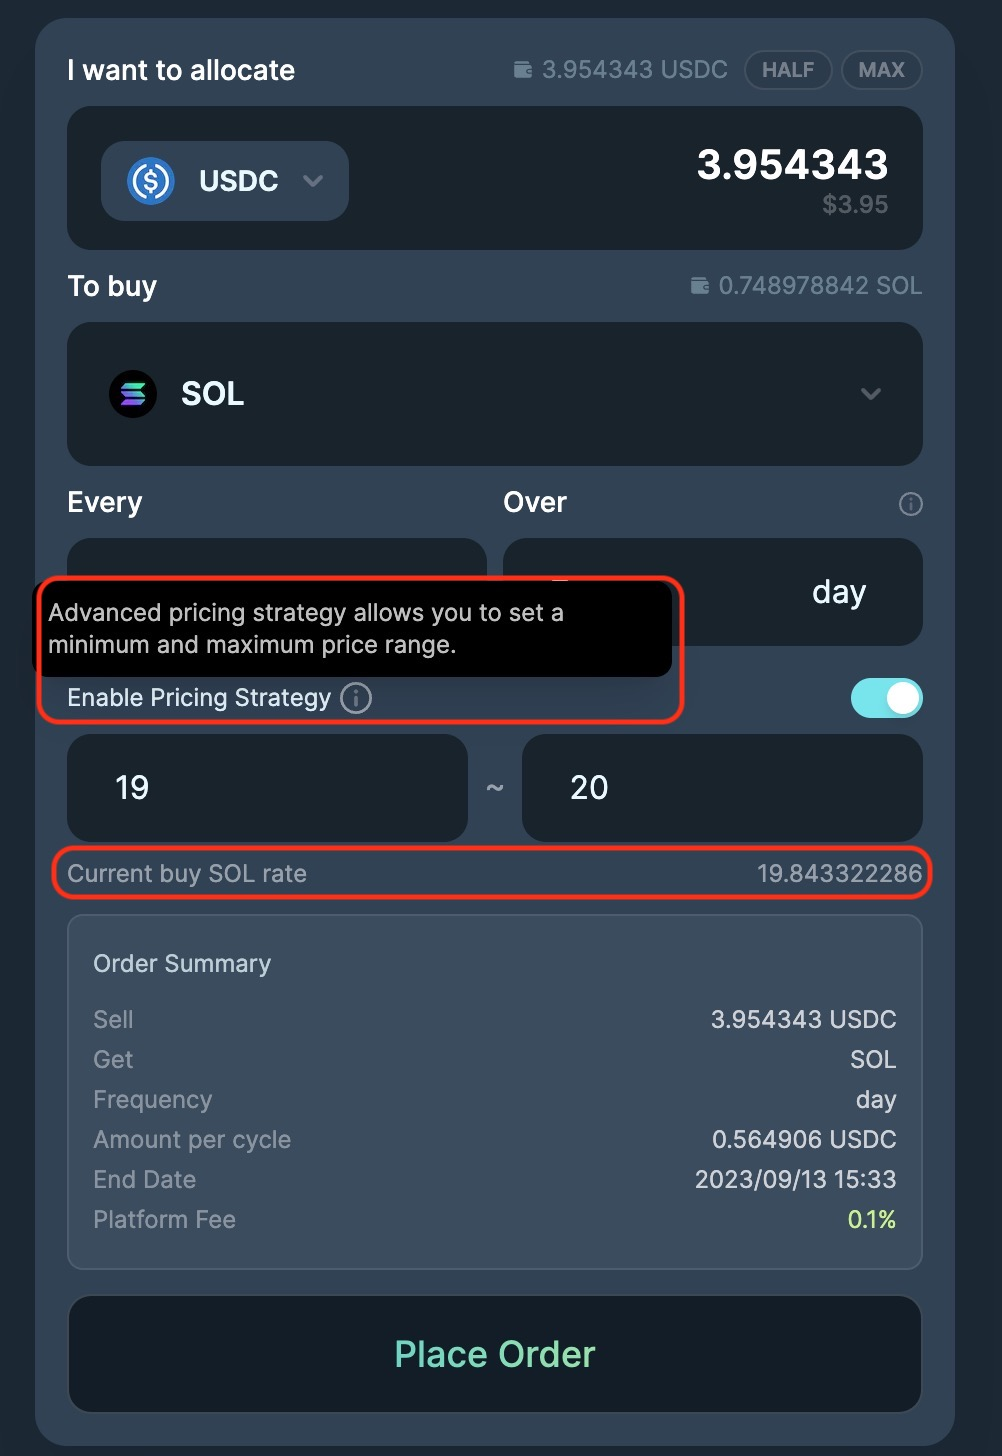
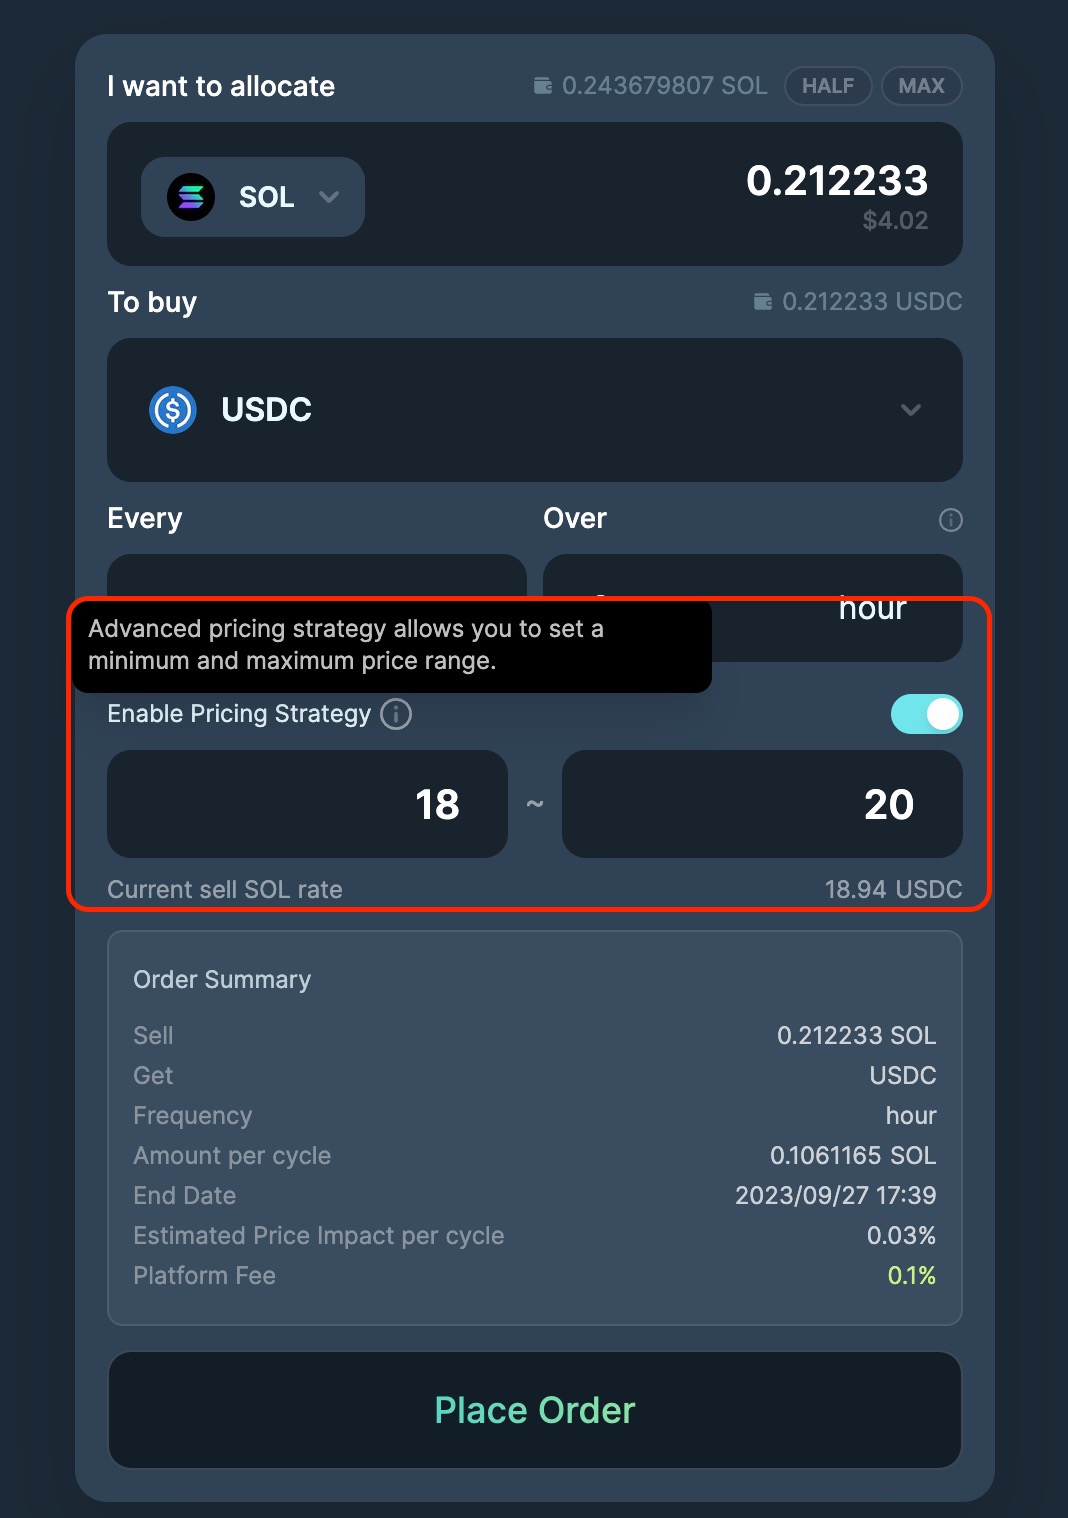
Updated image and added new update

Changed region(s): [[0.0309, 0.0, 0.9591, 1.0], [0.6806, 0.6799, 0.8972, 0.8654], [0.4022, 0.8963, 0.5878, 0.9581]]

diff --git a/blog/2023-09-18-dca-out-of-beta/index.md b/blog/2023-09-18-dca-out-of-beta/index.md
@@ -5,6 +5,8 @@ title: "Jupiter DCA Is Now Officially Launched!"
 
 In an important step towards building the most powerful and usable set of spot trading features in DeFi, we are thrilled to announce that **Jupiter DCA is now officially launched!** After many rounds of rigorous testing and user feedback, we have incorporated a ton of improvements based on valuable suggestions and ideas from partners and users to increase platform stability and add more features.
 
+![DCALaunch](dcalaunch.gif)
+
 ## Jupiter DCA Recap
 
 2 months ago, we launched the beta version of Jupiter DCA - a non-custodial, on-chain dollar cost averaging solution to automate the purchase or sale of any token.
@@ -20,7 +22,7 @@ Key use cases for DCA includes:
 
 To ensure best price execution, DCA keepers use Jupiter and also perform price checks against an external price data provider i.e. Birdeye. In additon, to prevent people from querying and hijacking the order right before the order is about to be executed, orders have a + 2 ~ 30 second variability.
 
-## Upgrades From Beta:**
+## Upgrades From Beta
 
 - **Advanced Pricing Strategy:** Introducing Min/Max parameters for users to define a precise, user-defined executable price range. This gives users more control over their investments and helps them avoid buying or selling at unfavorable prices.
 
@@ -34,9 +36,9 @@ To ensure best price execution, DCA keepers use Jupiter and also perform price c
 
 - **Enhanced Default Slippage Rate for Improved Order Fulfillment:** The default slippage rate has been adjusted to 10 basis points (bps) for an improved and better transaction fulfilment rate without disrupting the DCA flow.
 
-- **Additional Checks and Warnings:** Implementing further checks and warnings to enhance safety and security for users.
+- **Enhanced Safety Mechanism with additional checks and warning:** Verifying scheduled date/time, token validation against the Jupiter Strict List, and issuing warnings for high price impact. User can now see estimated price impacts for each cycle, and lower-cap tokens have more precise decimal market rates, with more warning and banners to bolster trading experience.
 
-- **Enhanced Safety Mechanism:** Verification of the scheduled date/time and validation of available tradable tokens on Jupiter Strict token list to add an extra layer of security for users when trading new tokens. 
+![DCA3](DCA(3).jpg)
 
 ## Advanced Pricing Strategy
 
@@ -54,6 +56,7 @@ One of the most eagerly requested additions from our users and partners is the i
 
 So in this scenario, if the **SOL price is within $19-$20**, the DCA will execute the order, and if it *falls below* or *pump above* the range, Jupiter will retry at a later time to try to check with the price, and if it is within the user-defined range, Jupiter will attempt to execute the order while enforcing our randomiser so your trade remains unpredictable.
 
+![DCA4](DCA(4).jpg)
 
 ## Expanded Tradable Token Selection
 
@@ -80,7 +83,6 @@ We have a suggestive text that explains each min and max frequency for each iter
 - Month → 2 - 12 months (~1 year)
 
 ![dcaerror2](dcaerror2.jpg)
-
 
 ## Join us!
 
